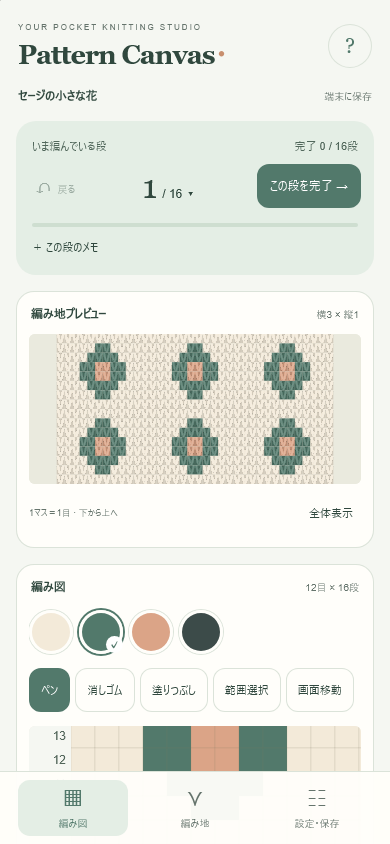
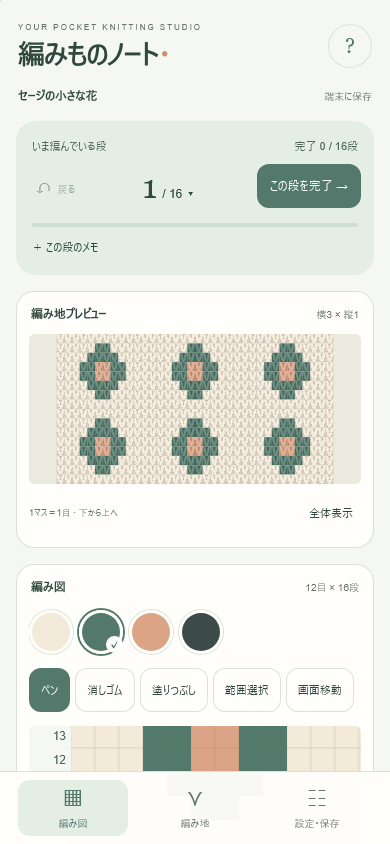
Rename both apps and distribution pages to Japanese name

Changed region(s): [[0.0308, 0.0308, 0.5538, 0.0924]]

diff --git a/docs/index.html b/docs/index.html
@@ -3,23 +3,23 @@
 <head>
   <meta charset="utf-8"><meta name="viewport" content="width=device-width, initial-scale=1">
   <meta name="theme-color" content="#8d1735">
-  <title>Pattern Canvas｜編み図づくりから、一段ずつの記録まで。</title>
-  <meta name="description" content="棒針編み込みの編み図づくり、編み地プレビュー、段数カウンターをひとつに。Android向けPattern Canvasの無料試用版と、はじめてのインストールガイド。">
+  <title>編みものノート｜編み図づくりから、一段ずつの記録まで。</title>
+  <meta name="description" content="棒針編み込みの編み図づくり、編み地プレビュー、段数カウンターをひとつに。Android向け編みものノートの無料試用版と、はじめてのインストールガイド。">
   <meta property="og:type" content="website"><meta property="og:locale" content="ja_JP">
-  <meta property="og:title" content="Pattern Canvas｜ひと目ずつ、思い描いた模様へ。">
+  <meta property="og:title" content="編みものノート｜ひと目ずつ、思い描いた模様へ。">
   <meta property="og:description" content="編み図・編み地プレビュー・段数カウンター。Android用の無料試用版を配布中。はじめての方への使い方ガイド付き。">
   <meta property="og:url" content="https://asm-asm.github.io/patterncanvas/">
-  <meta property="og:image" content="https://asm-asm.github.io/patterncanvas/assets/og.png">
+  <meta property="og:image" content="https://asm-asm.github.io/patterncanvas/assets/og-ja.png">
   <meta property="og:image:width" content="1536"><meta property="og:image:height" content="1024">
-  <meta property="og:image:alt" content="Pattern Canvas。ひと目ずつ、思い描いた模様へ。青と生成りの編み地を描いた紹介イメージ。">
-  <meta name="twitter:image" content="https://asm-asm.github.io/patterncanvas/assets/og.png">
+  <meta property="og:image:alt" content="編みものノート。ひと目ずつ、思い描いた模様へ。青と生成りの編み地を描いた紹介イメージ。">
+  <meta name="twitter:image" content="https://asm-asm.github.io/patterncanvas/assets/og-ja.png">
   <meta name="twitter:card" content="summary_large_image">
   <link rel="stylesheet" href="styles.css">
 </head>
 <body>
 <a class="skip" href="#main">本文へ移動</a>
 <header class="header wrap">
-  <a class="brand" href="#" aria-label="Pattern Canvas トップ"><span class="brand-mark" aria-hidden="true">▦</span>Pattern Canvas<span class="brand-dot">.</span></a>
+  <a class="brand" href="#" aria-label="編みものノート トップ"><span class="brand-mark" aria-hidden="true">▦</span>編みものノート<span class="brand-dot">.</span></a>
   <nav aria-label="メインナビゲーション"><a href="iphone/">iPhone版 ↗</a><a href="#features">できること</a><a href="#guide">はじめ方</a><a class="nav-download" href="#download">ダウンロード <span aria-hidden="true">↘</span></a></nav>
 </header>
 <main id="main">
@@ -29,11 +29,11 @@
       <h1>ひと目ずつ、<br>思い描いた<br><span>模様へ。</span></h1>
       <p class="hero-description">色を置いて、編み地を眺めて、また一段。<br>編み図づくりから「いま、何段目？」まで。<br>あなたの編み物に寄り添う、小さな道具です。</p>
       <div class="hero-actions"><a class="button" href="#download">Android版をダウンロード <span aria-hidden="true">↓</span></a><a class="text-link" href="#guide">はじめての方へ <span aria-hidden="true">↗</span></a></div>
-      <p class="fine">無料試用版 v0.2.0 <span>／</span> Android 8.0以上 <span>／</span> アカウント登録不要</p>
+      <p class="fine">無料試用版 v0.2.1 <span>／</span> Android 8.0以上 <span>／</span> アカウント登録不要</p>
     </div>
     <figure class="hero-visual">
       <div class="visual-top"><span>YOUR NEXT PATTERN</span><span>01 / 28</span></div>
-      <div class="screen-frame"><img src="assets/app-screen.png" width="900" height="950" fetchpriority="high" alt="Pattern Canvasの実際の画面。左側に設定、右上に青と生成りの編み地プレビュー、右下に同じ模様の編み図と段数カウンター。"></div>
+      <div class="screen-frame"><img src="assets/app-screen.png" width="900" height="950" fetchpriority="high" alt="編みものノートの実際の画面。左側に設定、右上に青と生成りの編み地プレビュー、右下に同じ模様の編み図と段数カウンター。"></div>
       <figcaption><span class="status-dot"></span> 編み図の1マスが、編み地の1目に。</figcaption>
       <div class="visual-note">描く。眺める。編み進める。</div>
     </figure>
@@ -51,17 +51,17 @@
   <section class="section wrap" id="guide">
     <div class="section-heading"><div><p class="eyebrow">YOUR FIRST THREE STEPS</p><h2>はじめてでも、ひとつずつ。</h2></div><p>スマートフォンだけで始められます。<br>パソコンやケーブルは必要ありません。</p></div>
     <ol class="steps">
-      <li><span class="step-number">1</span><div><h3>Androidで、このページを開く</h3><p>下のダウンロードボタンから「PatternCanvas-0.2.0-debug.apk」を保存します。APKは、Androidにアプリを入れるためのファイルです。</p><p class="step-tip">パソコンで見ている場合は、ページのURLをスマートフォンへ送ってください。</p></div></li>
+      <li><span class="step-number">1</span><div><h3>Androidで、このページを開く</h3><p>下のダウンロードボタンから「AmimonoNote-0.2.1-debug.apk」を保存します。APKは、Androidにアプリを入れるためのファイルです。</p><p class="step-tip">パソコンで見ている場合は、ページのURLをスマートフォンへ送ってください。</p></div></li>
       <li><span class="step-number">2</span><div><h3>保存したファイルを開いて、インストール</h3><p>ブラウザーのダウンロード一覧、または端末の「マイファイル」「Files」からAPKを開きます。許可を求められたら、設定で使用中のブラウザーなどに「この提供元のアプリを許可」を設定し、元の画面でインストールします。</p><p class="step-tip">Google Play外の試用版です。表示される内容を確認して進めてください。項目名は端末により異なります。インストール後は許可を元に戻せます。<a href="https://support.google.com/pixelphone/answer/7391672?hl=ja" target="_blank" rel="noopener noreferrer">Googleの案内 ↗</a></p></div></li>
-      <li><span class="step-number">3</span><div><h3>サンプルの模様で、ひと目から</h3><p>「Pattern Canvas」を開くとサンプルが表示されます。色を選んでマスを塗ってみましょう。段を数える時は左端の段番号をタップし、編めたら「この段を完了」。自分の模様は「白紙を新規作成」から作れます。</p><p class="step-tip">サンプルを残したい時は「作品を書き出す」で保存してから編集してください。</p></div></li>
+      <li><span class="step-number">3</span><div><h3>サンプルの模様で、ひと目から</h3><p>「編みものノート」を開くとサンプルが表示されます。色を選んでマスを塗ってみましょう。段を数える時は左端の段番号をタップし、編めたら「この段を完了」。自分の模様は「白紙を新規作成」から作れます。</p><p class="step-tip">サンプルを残したい時は「作品を書き出す」で保存してから編集してください。</p></div></li>
     </ol>
   </section>
   <section id="download" class="download-section wrap">
-    <div class="download-copy"><p class="eyebrow">LET'S CAST ON</p><h2>次のひと目を、<br>ここから。</h2><p>Pattern Canvas for Android</p><p class="download-details">v0.2.0 · 無料試用版（デバッグAPK）<br>Android 8.0以上 · 約16.8 MB · 2026年9月13日公開</p></div>
-    <div class="download-action"><a class="button button-light" href="https://github.com/asm-asm/patterncanvas/releases/download/v0.2.0/PatternCanvas-0.2.0-debug.apk">APKをダウンロード <span aria-hidden="true">↓</span></a><p>GitHubへのログインは不要です。<br>iPhoneは<a href="iphone/" style="color:inherit">専用Web版はこちら ↗</a>。</p><a href="https://github.com/asm-asm/patterncanvas/releases/tag/v0.2.0">更新内容・ファイル情報 ↗</a><div class="save-note">大切な作品は「作品を書き出す」でバックアップを。更新時も、先に書き出しておくと安心です。</div></div>
+    <div class="download-copy"><p class="eyebrow">LET'S CAST ON</p><h2>次のひと目を、<br>ここから。</h2><p>編みものノート Android版</p><p class="download-details">v0.2.1 · 無料試用版（デバッグAPK）<br>Android 8.0以上 · 約16.7 MB · 2026年9月14日更新</p></div>
+    <div class="download-action"><a class="button button-light" href="https://github.com/asm-asm/patterncanvas/releases/download/v0.2.1/AmimonoNote-0.2.1-debug.apk">APKをダウンロード <span aria-hidden="true">↓</span></a><p>GitHubへのログインは不要です。<br>iPhoneは<a href="iphone/" style="color:inherit">専用Web版はこちら ↗</a>。</p><a href="https://github.com/asm-asm/patterncanvas/releases/tag/v0.2.1">更新内容・ファイル情報 ↗</a><div class="save-note">大切な作品は「作品を書き出す」でバックアップを。更新時も、先に書き出しておくと安心です。</div></div>
   </section>
   <section class="section wrap faq" id="faq"><div><p class="eyebrow">A FEW THINGS TO KNOW</p><h2>気になること。</h2><p>つまずいた時は、こちらから。</p></div><div class="questions">
-    <details><summary>無料で使えますか？</summary><p>このページのv0.2.0試用版は無料でダウンロードできます。アカウント登録やアプリ内課金はありません。開発途中のため、使い心地や不具合に気づいたらぜひお知らせください。</p></details>
+    <details><summary>無料で使えますか？</summary><p>このページのv0.2.1試用版は無料でダウンロードできます。アカウント登録やアプリ内課金はありません。開発途中のため、使い心地や不具合に気づいたらぜひお知らせください。</p></details>
     <details><summary>インストールできません。</summary><p>Android 8.0以上であること、APKを最後までダウンロードできていること、空き容量を確認してください。ファイルを開いたアプリの「不明なアプリのインストール」が許可されているかも確認します。</p><p>端末の保護機能・管理者設定・開発者の確認によって制限される場合があります。設定変更の意味が分からない場合は無理に進めず、表示されたメッセージと機種名を添えてお問い合わせください。<a href="https://support.google.com/android/answer/17588095?hl=ja" target="_blank" rel="noopener noreferrer">Android公式の案内 ↗</a></p></details>
     <details><summary>作品や画像は、どこに保存されますか？</summary><p>編み図、毛糸、現在段、完了段、メモはアプリ内に端末保存します。画像からの変換も端末で処理し、アプリ独自のサーバーへ送信しません。Androidのバックアップ設定によってOSのバックアップ対象になる場合があります。</p><p>アンインストールや端末のデータ消去で作品が失われることがあるため、「作品を書き出す」から別の場所にも保存してください。この配布サイトには独自のアクセス解析や広告を設置していません。配信にはGitHub Pages / Releasesを利用します。</p></details>
     <details><summary>編み地プレビューは、実物と同じですか？</summary><p>マスの色・配置・リピート数は編み図と対応します。毛糸の質感を付けたV字のイメージ表示です。実際の編み地の寸法、毛糸の太さ、ゲージ、糸の引き加減までは再現しません。</p></details>
@@ -69,7 +69,7 @@
     <details><summary>不具合や要望を伝えたい。</summary><p><a href="https://github.com/asm-asm/patterncanvas/issues/new?template=feedback.yml">GitHubの報告フォーム</a>から、機種名・アプリのバージョン・起きたことを教えてください。報告にはGitHubアカウントが必要です。投稿は公開されるので、個人情報や公開したくない画像は含めないでください。</p></details>
   </div></section>
 </main>
-<footer class="wrap footer"><a class="brand" href="#">Pattern Canvas<span class="brand-dot">.</span></a><p>ひと目ずつ、あなたのペースで。</p><a href="https://github.com/asm-asm/patterncanvas">GitHub ↗</a><a href="#guide">インストールガイド</a></footer>
+<footer class="wrap footer"><a class="brand" href="#">編みものノート<span class="brand-dot">.</span></a><p>ひと目ずつ、あなたのペースで。</p><a href="https://github.com/asm-asm/patterncanvas">GitHub ↗</a><a href="#guide">インストールガイド</a></footer>
 <script src="site.js" defer></script>
 <script src="downloads.js" defer></script>
 </body>

diff --git a/docs/iphone/index.html b/docs/iphone/index.html
@@ -1,10 +1,10 @@
-<!doctype html><html lang="ja"><head><meta charset="utf-8"><meta name="viewport" content="width=device-width,initial-scale=1,viewport-fit=cover"><meta name="theme-color" content="#52796b"><title>Pattern Canvas for iPhone｜編みもの時間を、手のひらに。</title><meta name="description" content="iPhoneのSafariから使える編み図・編み地プレビュー・段数カウンター。ストア不要、無料。ホーム画面に追加して、ひと目ずつ。"><meta property="og:title" content="Pattern Canvas for iPhone"><meta property="og:description" content="編みもの時間を、手のひらに。ストア不要のiPhone向け編み図アプリ。"><meta property="og:type" content="website"><meta property="og:url" content="https://asm-asm.github.io/patterncanvas/iphone/"><meta property="og:image" content="https://asm-asm.github.io/patterncanvas/iphone/og.png"><meta property="og:image:alt" content="セージとアプリコットの編み地を描いたPattern Canvas for iPhoneの紹介イメージ"><meta name="twitter:card" content="summary_large_image"><link rel="stylesheet" href="landing.css"><link rel="icon" href="app/icon-192.png"></head><body>
-<header class="wrap"><a class="brand" href="./">Pattern Canvas<span>・</span></a><a class="top-link" href="app/">アプリを開く ↗</a></header>
-<main><section class="hero wrap"><div class="hero-text"><p class="eyebrow">A LITTLE STUDIO, IN YOUR POCKET</p><span class="pill">for iPhone · 無料Webアプリ</span><h1>編みもの時間を、<br><em>手のひらに。</em></h1><p class="intro">お気に入りの色を並べて、<br>編み地を眺めて、また一段。<br>あなたのペースで編むための、小さな道具。</p><a class="button" href="app/">iPhone版を開く <span>↗</span></a><a class="guide-link" href="#install">ホーム画面への追加方法 ↓</a><p class="fine">ストアへの登録も、アカウントも不要です。<br>iOS 16以降のSafari向け · 試用版 v0.1.0</p></div><figure><div class="phone"><div class="island"></div><img src="app-screen.png" width="390" height="844" alt="iPhone版の画面。セージグリーンの段数カウンターと、同じ模様を表示する編み地・編み図。"></div><figcaption>セージとアプリコットの、小さな作業台。</figcaption><span class="stamp">ONE STITCH<br>AT A TIME</span></figure></section>
+<!doctype html><html lang="ja"><head><meta charset="utf-8"><meta name="viewport" content="width=device-width,initial-scale=1,viewport-fit=cover"><meta name="theme-color" content="#52796b"><title>編みものノート iPhone版｜編みもの時間を、手のひらに。</title><meta name="description" content="iPhoneのSafariから使える編み図・編み地プレビュー・段数カウンター。ストア不要、無料。ホーム画面に追加して、ひと目ずつ。"><meta property="og:title" content="編みものノート iPhone版"><meta property="og:description" content="編みもの時間を、手のひらに。ストア不要のiPhone向け編み図アプリ。"><meta property="og:type" content="website"><meta property="og:url" content="https://asm-asm.github.io/patterncanvas/iphone/"><meta property="og:image" content="https://asm-asm.github.io/patterncanvas/iphone/og-ja.png"><meta property="og:image:alt" content="セージとアプリコットの編み地を描いた編みものノート iPhone版の紹介イメージ"><meta name="twitter:card" content="summary_large_image"><link rel="stylesheet" href="landing.css"><link rel="icon" href="app/icon-192.png"></head><body>
+<header class="wrap"><a class="brand" href="./">編みものノート<span>・</span></a><a class="top-link" href="app/">アプリを開く ↗</a></header>
+<main><section class="hero wrap"><div class="hero-text"><p class="eyebrow">A LITTLE STUDIO, IN YOUR POCKET</p><span class="pill">for iPhone · 無料Webアプリ</span><h1>編みもの時間を、<br><em>手のひらに。</em></h1><p class="intro">お気に入りの色を並べて、<br>編み地を眺めて、また一段。<br>あなたのペースで編むための、小さな道具。</p><a class="button" href="app/">iPhone版を開く <span>↗</span></a><a class="guide-link" href="#install">ホーム画面への追加方法 ↓</a><p class="fine">ストアへの登録も、アカウントも不要です。<br>iOS 16以降のSafari向け · 試用版 v0.1.1</p></div><figure><div class="phone"><div class="island"></div><img src="app-screen.png" width="390" height="844" alt="iPhone版の画面。セージグリーンの段数カウンターと、同じ模様を表示する編み地・編み図。"></div><figcaption>セージとアプリコットの、小さな作業台。</figcaption><span class="stamp">ONE STITCH<br>AT A TIME</span></figure></section>
 <section class="strip"><div class="wrap"><span>描く。</span><span>眺める。</span><span>一段、進む。</span></div></section>
 <section class="wrap features"><p class="eyebrow">EVERYTHING FOR YOUR NEXT ROW</p><h2>ひと目に、ちゃんとつながる。</h2><div class="cards"><article><span class="number">01</span><h3>好きな模様をつくる</h3><p>ペン、消しゴム、塗りつぶし、範囲のコピーや反転。白紙からも、写真の切り抜き・減色からも始められます。</p></article><article><span class="number">02</span><h3>編み地を見ながら</h3><p>編み図の1マスは、プレビューの1目。同じデータから描くので、色や繰り返しもそのまま。1段目は一番下です。</p></article><article><span class="number">03</span><h3>いまの段を忘れない</h3><p>段番号で選んで、編めたら「この段を完了」。完了チェックとメモを残せます。間違えたら1段戻って、もう一度。</p></article></div></section>
-<section class="install" id="install"><div class="wrap"><p class="eyebrow">NO APP STORE NEEDED</p><h2>ホーム画面に、<br>編み物の居場所を。</h2><p class="lead">アプリファイルのダウンロードは不要。Safariから追加できます。</p><ol><li><strong>1</strong><div><h3>Safariでアプリを開く</h3><p>iPhoneのSafariで、<a href="app/">「iPhone版を開く」</a>をタップします。まずはサンプルの模様を試してみてください。</p></div></li><li><strong>2</strong><div><h3>共有 → ホーム画面に追加</h3><p>Safariの共有メニューを開き、「ホーム画面に追加」を選びます。項目が表示される場合は「Webアプリとして開く」をオンにして「追加」。</p></div></li><li><strong>3</strong><div><h3>アイコンから、いつでも</h3><p>ホーム画面のPattern Canvasをタップ。最初にオンラインで開き、設定画面に「オフラインで使う準備ができました」と出れば、通信がない場所でも編めます。</p></div></li></ol><a class="source" href="https://support.apple.com/ja-jp/guide/iphone/iphea86e5236/ios">Appleの追加手順を見る ↗</a></div></section>
+<section class="install" id="install"><div class="wrap"><p class="eyebrow">NO APP STORE NEEDED</p><h2>ホーム画面に、<br>編み物の居場所を。</h2><p class="lead">アプリファイルのダウンロードは不要。Safariから追加できます。</p><ol><li><strong>1</strong><div><h3>Safariでアプリを開く</h3><p>iPhoneのSafariで、<a href="app/">「iPhone版を開く」</a>をタップします。まずはサンプルの模様を試してみてください。</p></div></li><li><strong>2</strong><div><h3>共有 → ホーム画面に追加</h3><p>Safariの共有メニューを開き、「ホーム画面に追加」を選びます。項目が表示される場合は「Webアプリとして開く」をオンにして「追加」。</p></div></li><li><strong>3</strong><div><h3>アイコンから、いつでも</h3><p>ホーム画面の編みものノートをタップ。最初にオンラインで開き、設定画面に「オフラインで使う準備ができました」と出れば、通信がない場所でも編めます。</p></div></li></ol><a class="source" href="https://support.apple.com/ja-jp/guide/iphone/iphea86e5236/ios">Appleの追加手順を見る ↗</a></div></section>
 <section class="wrap more"><div><p class="eyebrow">YOUR PATTERNS, YOUR PACE</p><h2>保存も、<br>自分の手元に。</h2></div><div><p>編み図、毛糸、進捗、メモは端末内へ自動保存。作品や取り込んだ画像を、アプリ独自のサーバーへ送信しません。</p><p>大切な作品は、設定の「作品を書き出す」からファイルにも保存してください。Safariのデータ消去や端末の空き容量不足で保存内容が失われる場合があります。</p><p class="fine">Safariとホーム画面アプリで同じ作品が見えない場合は、書き出したファイルを読み込んでください。クラウド同期はありません。</p></div></section>
-<section class="wrap faq"><h2>はじめる前に。</h2><details><summary>普通のiPhoneで使えますか？</summary><p>標準的なiPhoneの縦画面を想定し、横幅375〜430pxを中心に設計しています。iOS 16以降のSafariを想定しています。iPhone実機での検証は未実施です。環境によって表示や保存の動作が異なることがあります。</p></details><details><summary>Android版と何が違いますか？</summary><p>iPhone版はSafariで動くWebアプリです。配色はセージグリーンとアプリコット。編み図は最大100目×100段、毛糸は32色、リピートは横・縦10回まで。作品の書き出しは専用JSON形式で、Android版の.pcanvasとは互換性がありません。<a href="../">Android版はこちら</a>。</p></details><details><summary>作品はずっと保存されますか？</summary><p>通常は端末内に残りますが、ブラウザーのデータ消去やストレージ管理で削除される場合があります。アプリの「設定・保存」→「作品を書き出す」でバックアップしてください。履歴は開いている間のみ保持します。</p></details><details><summary>プレビューどおりに編み上がりますか？</summary><p>マスの色、位置、リピートは対応しています。V字の陰影はイメージで、毛糸の太さやゲージ、糸の引き加減を再現するものではありません。</p></details><details><summary>要望や不具合を送りたい</summary><p><a href="https://github.com/asm-asm/patterncanvas/issues/new?template=feedback.yml">GitHubの報告フォーム</a>に「iPhone Web版 v0.1.0」と、機種・iOSバージョン・起きたことを記入してください。報告にはGitHubアカウントが必要で、投稿は公開されます。</p></details></section>
+<section class="wrap faq"><h2>はじめる前に。</h2><details><summary>普通のiPhoneで使えますか？</summary><p>標準的なiPhoneの縦画面を想定し、横幅375〜430pxを中心に設計しています。iOS 16以降のSafariを想定しています。iPhone実機での検証は未実施です。環境によって表示や保存の動作が異なることがあります。</p></details><details><summary>Android版と何が違いますか？</summary><p>iPhone版はSafariで動くWebアプリです。配色はセージグリーンとアプリコット。編み図は最大100目×100段、毛糸は32色、リピートは横・縦10回まで。作品の書き出しは専用JSON形式で、Android版の.pcanvasとは互換性がありません。<a href="../">Android版はこちら</a>。</p></details><details><summary>作品はずっと保存されますか？</summary><p>通常は端末内に残りますが、ブラウザーのデータ消去やストレージ管理で削除される場合があります。アプリの「設定・保存」→「作品を書き出す」でバックアップしてください。履歴は開いている間のみ保持します。</p></details><details><summary>プレビューどおりに編み上がりますか？</summary><p>マスの色、位置、リピートは対応しています。V字の陰影はイメージで、毛糸の太さやゲージ、糸の引き加減を再現するものではありません。</p></details><details><summary>要望や不具合を送りたい</summary><p><a href="https://github.com/asm-asm/patterncanvas/issues/new?template=feedback.yml">GitHubの報告フォーム</a>に「iPhone Web版 v0.1.1」と、機種・iOSバージョン・起きたことを記入してください。報告にはGitHubアカウントが必要で、投稿は公開されます。</p></details></section>
 <section class="wrap cta"><p class="eyebrow">LET'S MAKE SOMETHING</p><h2>次のひと目から、<br>はじめましょう。</h2><a class="button" href="app/">iPhone版を開く <span>↗</span></a><p class="fine">無料 · 登録不要 · ホーム画面に追加できます</p></section></main>
-<footer class="wrap"><a class="brand" href="./">Pattern Canvas<span>・</span></a><a href="../">Android版 ↗</a><a href="https://github.com/asm-asm/patterncanvas">GitHub ↗</a></footer></body></html>
+<footer class="wrap"><a class="brand" href="./">編みものノート<span>・</span></a><a href="../">Android版 ↗</a><a href="https://github.com/asm-asm/patterncanvas">GitHub ↗</a></footer></body></html>

diff --git a/docs/iphone/app/index.html b/docs/iphone/app/index.html
@@ -1,5 +1,5 @@
-<!doctype html><html lang="ja"><head><meta charset="utf-8"><meta name="viewport" content="width=device-width,initial-scale=1,viewport-fit=cover"><meta name="theme-color" content="#52796b"><meta name="apple-mobile-web-app-capable" content="yes"><meta name="apple-mobile-web-app-status-bar-style" content="default"><meta name="apple-mobile-web-app-title" content="Pattern Canvas"><title>Pattern Canvas — iPhone</title><link rel="manifest" href="manifest.webmanifest"><link rel="apple-touch-icon" href="icon-192.png"><link rel="stylesheet" href="app.css"></head>
-<body><div class="shell"><header><div><span class="eyebrow">YOUR POCKET KNITTING STUDIO</span><h1>Pattern Canvas<span>・</span></h1></div><a class="help" href="../" aria-label="使い方・配布ページ">?</a></header>
+<!doctype html><html lang="ja"><head><meta charset="utf-8"><meta name="viewport" content="width=device-width,initial-scale=1,viewport-fit=cover"><meta name="theme-color" content="#52796b"><meta name="apple-mobile-web-app-capable" content="yes"><meta name="apple-mobile-web-app-status-bar-style" content="default"><meta name="apple-mobile-web-app-title" content="編みものノート"><title>編みものノート — iPhone</title><link rel="manifest" href="manifest.webmanifest"><link rel="apple-touch-icon" href="icon-192.png"><link rel="stylesheet" href="app.css"></head>
+<body><div class="shell"><header><div><span class="eyebrow">YOUR POCKET KNITTING STUDIO</span><h1>編みものノート<span>・</span></h1></div><a class="help" href="../" aria-label="使い方・配布ページ">?</a></header>
 <div id="message" role="status" aria-live="polite"></div><div class="project-line"><strong id="project-name"></strong><span id="save-state">端末に保存</span></div>
 <main><section id="work">
 <div class="counter"><div class="counter-top"><span>いま編んでいる段</span><span id="completed"></span></div><div class="counter-main"><button id="previous" aria-label="1段戻る">↶ <small>戻る</small></button><button id="choose-row" class="row-number" aria-label="現在段を選ぶ"></button><button id="complete" class="primary">この段を完了 →</button></div><div class="progress-track"><div id="progress"></div></div><button id="memo-open" class="memo-link">＋ この段のメモ</button></div>
@@ -11,7 +11,7 @@
 <div class="settings-card"><h3>毛糸の色</h3><div id="yarn-list"></div><div class="form-row"><label>色<input id="new-color" type="color" value="#dba487"></label><label>色名<input id="new-color-name" maxlength="100" placeholder="アプリコット"></label></div><button id="add-color">＋ 毛糸を追加</button></div>
 <div class="settings-card"><h3>新しくつくる</h3><div class="form-row"><label>目数（1〜100）<input id="new-width" type="number" min="1" max="100" value="16" inputmode="numeric"></label><label>段数（1〜100）<input id="new-height" type="number" min="1" max="100" value="20" inputmode="numeric"></label></div><button id="new-project">白紙の編み図をつくる</button><label class="file-button">画像から編み図をつくる<input id="image-file" type="file" accept="image/*" hidden></label></div>
 <div class="settings-card"><h3>作品を保存・読み込み</h3><button id="export" class="primary">作品を書き出す</button><label class="file-button">作品ファイルを開く<input id="import" type="file" accept=".json,application/json" hidden></label><p class="hint">編み図・毛糸・進捗・メモをJSONファイルに保存します。このiPhone版用の形式です。Android版の.pcanvasとは互換性がありません。</p><p class="hint">普段は端末内に自動保存。Safariのデータ消去や端末の空き容量不足に備え、大切な作品は「作品を書き出す」で「ファイル」に保存してください。</p></div>
-<div class="settings-card"><h3>ホーム画面で使う</h3><p class="hint">Safariで共有メニュー →「ホーム画面に追加」。項目がある場合は「Webアプリとして開く」をオンにします。初回はインターネットにつないで開いてください。</p><p id="offline-state" class="hint">オフラインの準備を確認中…</p><p class="hint">iPhone Web版 v0.1.0 · <a href="../">使い方・配布ページ</a></p></div></section></main>
+<div class="settings-card"><h3>ホーム画面で使う</h3><p class="hint">Safariで共有メニュー →「ホーム画面に追加」。項目がある場合は「Webアプリとして開く」をオンにします。初回はインターネットにつないで開いてください。</p><p id="offline-state" class="hint">オフラインの準備を確認中…</p><p class="hint">iPhone Web版 v0.1.1 · <a href="../">使い方・配布ページ</a></p></div></section></main>
 <nav class="tabs" aria-label="画面の切り替え"><button data-view="chart" class="active"><span>▦</span>編み図</button><button data-view="preview"><span>⋎</span>編み地</button><button data-view="settings"><span>☷</span>設定・保存</button></nav></div>
 <dialog id="row-dialog"><form method="dialog"><div class="dialog-head"><h2>編む段を選ぶ</h2><button value="cancel" aria-label="閉じる">×</button></div><label>段番号<input id="row-input" type="number" min="1" inputmode="numeric"></label><p class="hint">移動だけでは完了のチェックは変わりません。</p><button id="row-go" type="button" class="primary">この段へ移動</button></form></dialog>
 <dialog id="memo-dialog"><form method="dialog"><div class="dialog-head"><h2 id="memo-title">段のメモ</h2><button value="cancel" aria-label="閉じる">×</button></div><textarea id="memo" rows="5" maxlength="2000" placeholder="増し目、糸替え、気づいたこと…"></textarea><button id="memo-save" type="button" class="primary">メモを保存</button></form></dialog>

diff --git a/docs/downloads.js b/docs/downloads.js
@@ -9,22 +9,30 @@
   value.setAttribute('role', 'status');
   value.textContent = 'ダウンロード数を確認中…';
   const note = document.createElement('small');
-  note.textContent = 'v0.2.0のAPK取得回数（GitHub集計）。再取得や確認用の取得も含み、利用者数・インストール数とは異なります。';
+  note.textContent = '旧名称・旧版を含むAPKの累計取得回数（GitHub集計）。再取得や確認用の取得も含み、利用者数・インストール数とは異なります。';
   panel.append(value, note);
   container.append(panel);
   const controller = new AbortController();
   const timeout = setTimeout(() => controller.abort(), 8000);
   try {
-    const response = await fetch('https://api.github.com/repos/asm-asm/patterncanvas/releases/tags/v0.2.0', {
+    let count = 0;
+    for (let page = 1; ; page++) {
+    const response = await fetch(`https://api.github.com/repos/asm-asm/patterncanvas/releases?per_page=100&page=${page}`, {
       headers: { Accept: 'application/vnd.github+json' },
       credentials: 'omit',
       signal: controller.signal
     });
     if (!response.ok) throw new Error('Statistics unavailable');
-    const release = await response.json();
-    const asset = release.assets?.find(item => item.name === 'PatternCanvas-0.2.0-debug.apk');
-    if (!Number.isSafeInteger(asset?.download_count) || asset.download_count < 0) throw new Error('Invalid count');
-    value.textContent = `${asset.download_count.toLocaleString('ja-JP')} 回ダウンロード`;
+    const releases = await response.json();
+    if (!Array.isArray(releases)) throw new Error('Invalid releases');
+    for (const release of releases) for (const asset of release.assets || []) {
+      if (!asset.name?.toLowerCase().endsWith('.apk')) continue;
+      if (!Number.isSafeInteger(asset.download_count) || asset.download_count < 0) throw new Error('Invalid count');
+      count += asset.download_count;
+    }
+    if (releases.length < 100) break;
+    }
+    value.textContent = `${count.toLocaleString('ja-JP')} 回ダウンロード`;
     const time = document.createElement('small');
     time.textContent = `取得日時：${new Date().toLocaleString('ja-JP')}（集計の反映に遅れが出る場合があります）`;
     panel.append(time);

diff --git a/docs/iphone/app/sw.js b/docs/iphone/app/sw.js
@@ -1,4 +1,4 @@
-const CACHE='patterncanvas-iphone-v1-20260914a';
+const CACHE='patterncanvas-iphone-v1-20260914-rename';
 const FILES=['./','./index.html','./app.css','./app.mjs','./model.mjs','./draw.mjs','./manifest.webmanifest','./icon-192.png','./icon-512.png'];
 self.addEventListener('install',event=>{event.waitUntil(caches.open(CACHE).then(cache=>cache.addAll(FILES)));});
 self.addEventListener('activate',event=>{event.waitUntil(caches.keys().then(keys=>Promise.all(keys.filter(k=>k.startsWith('patterncanvas-iphone-')&&k!==CACHE).map(k=>caches.delete(k)))).then(()=>self.clients.claim()));});
